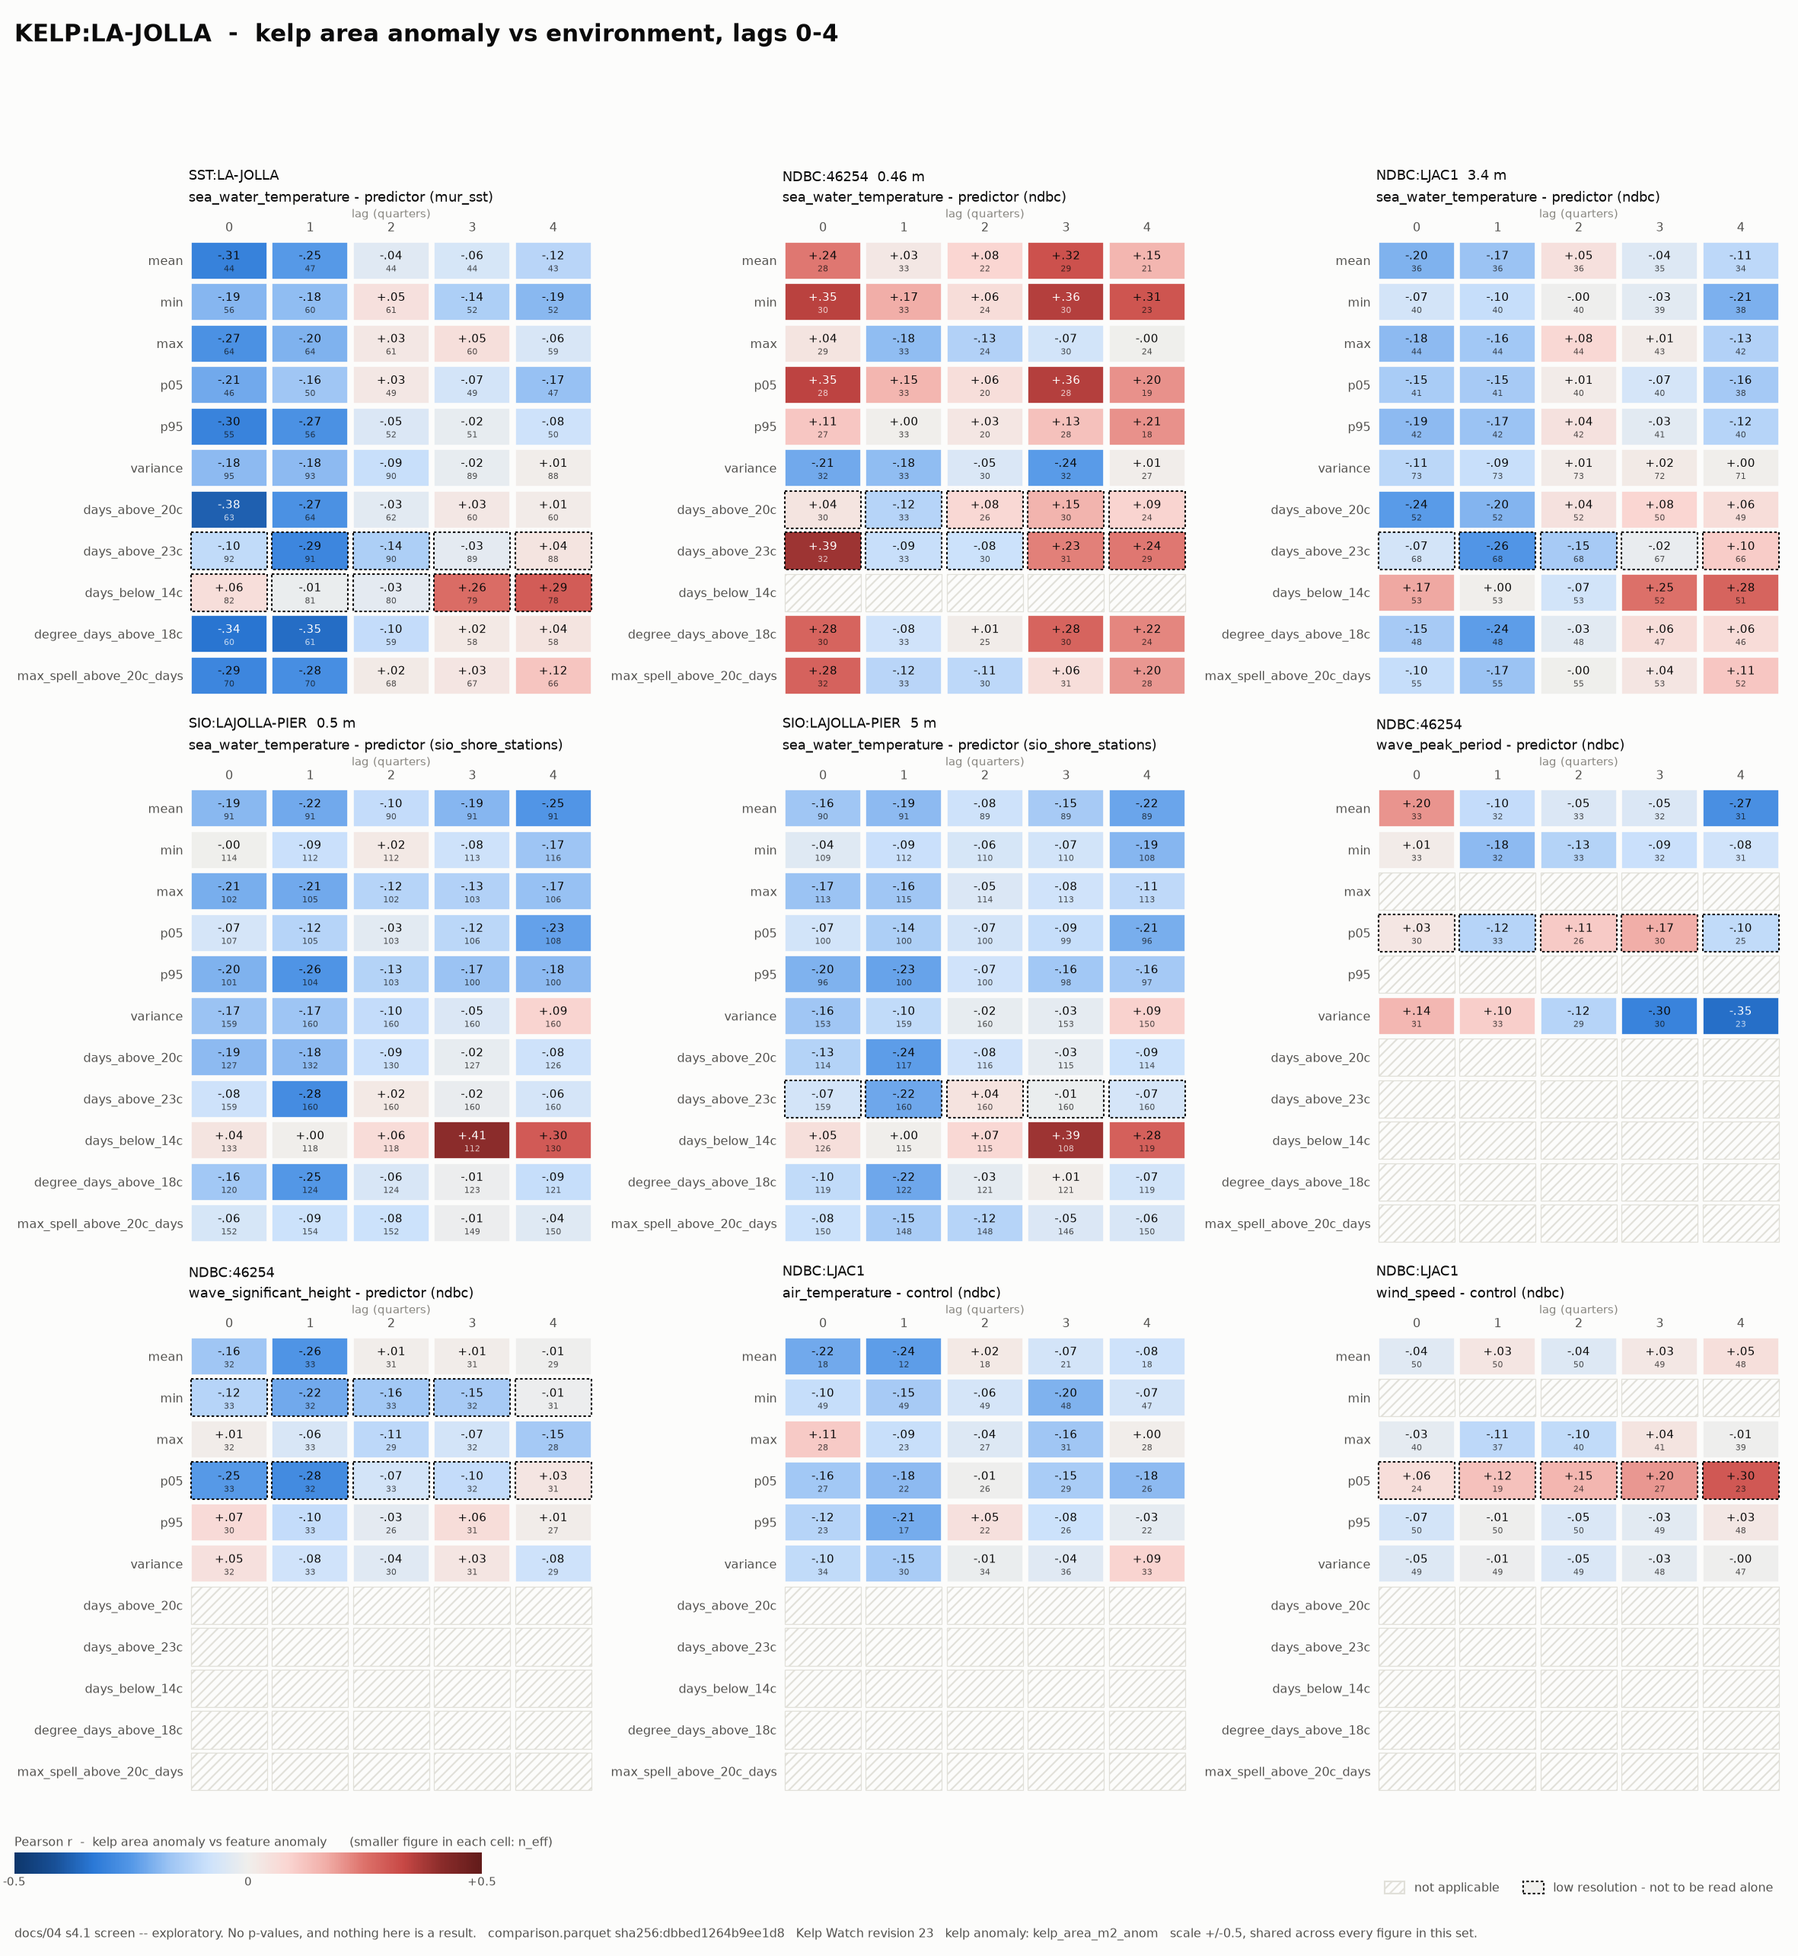
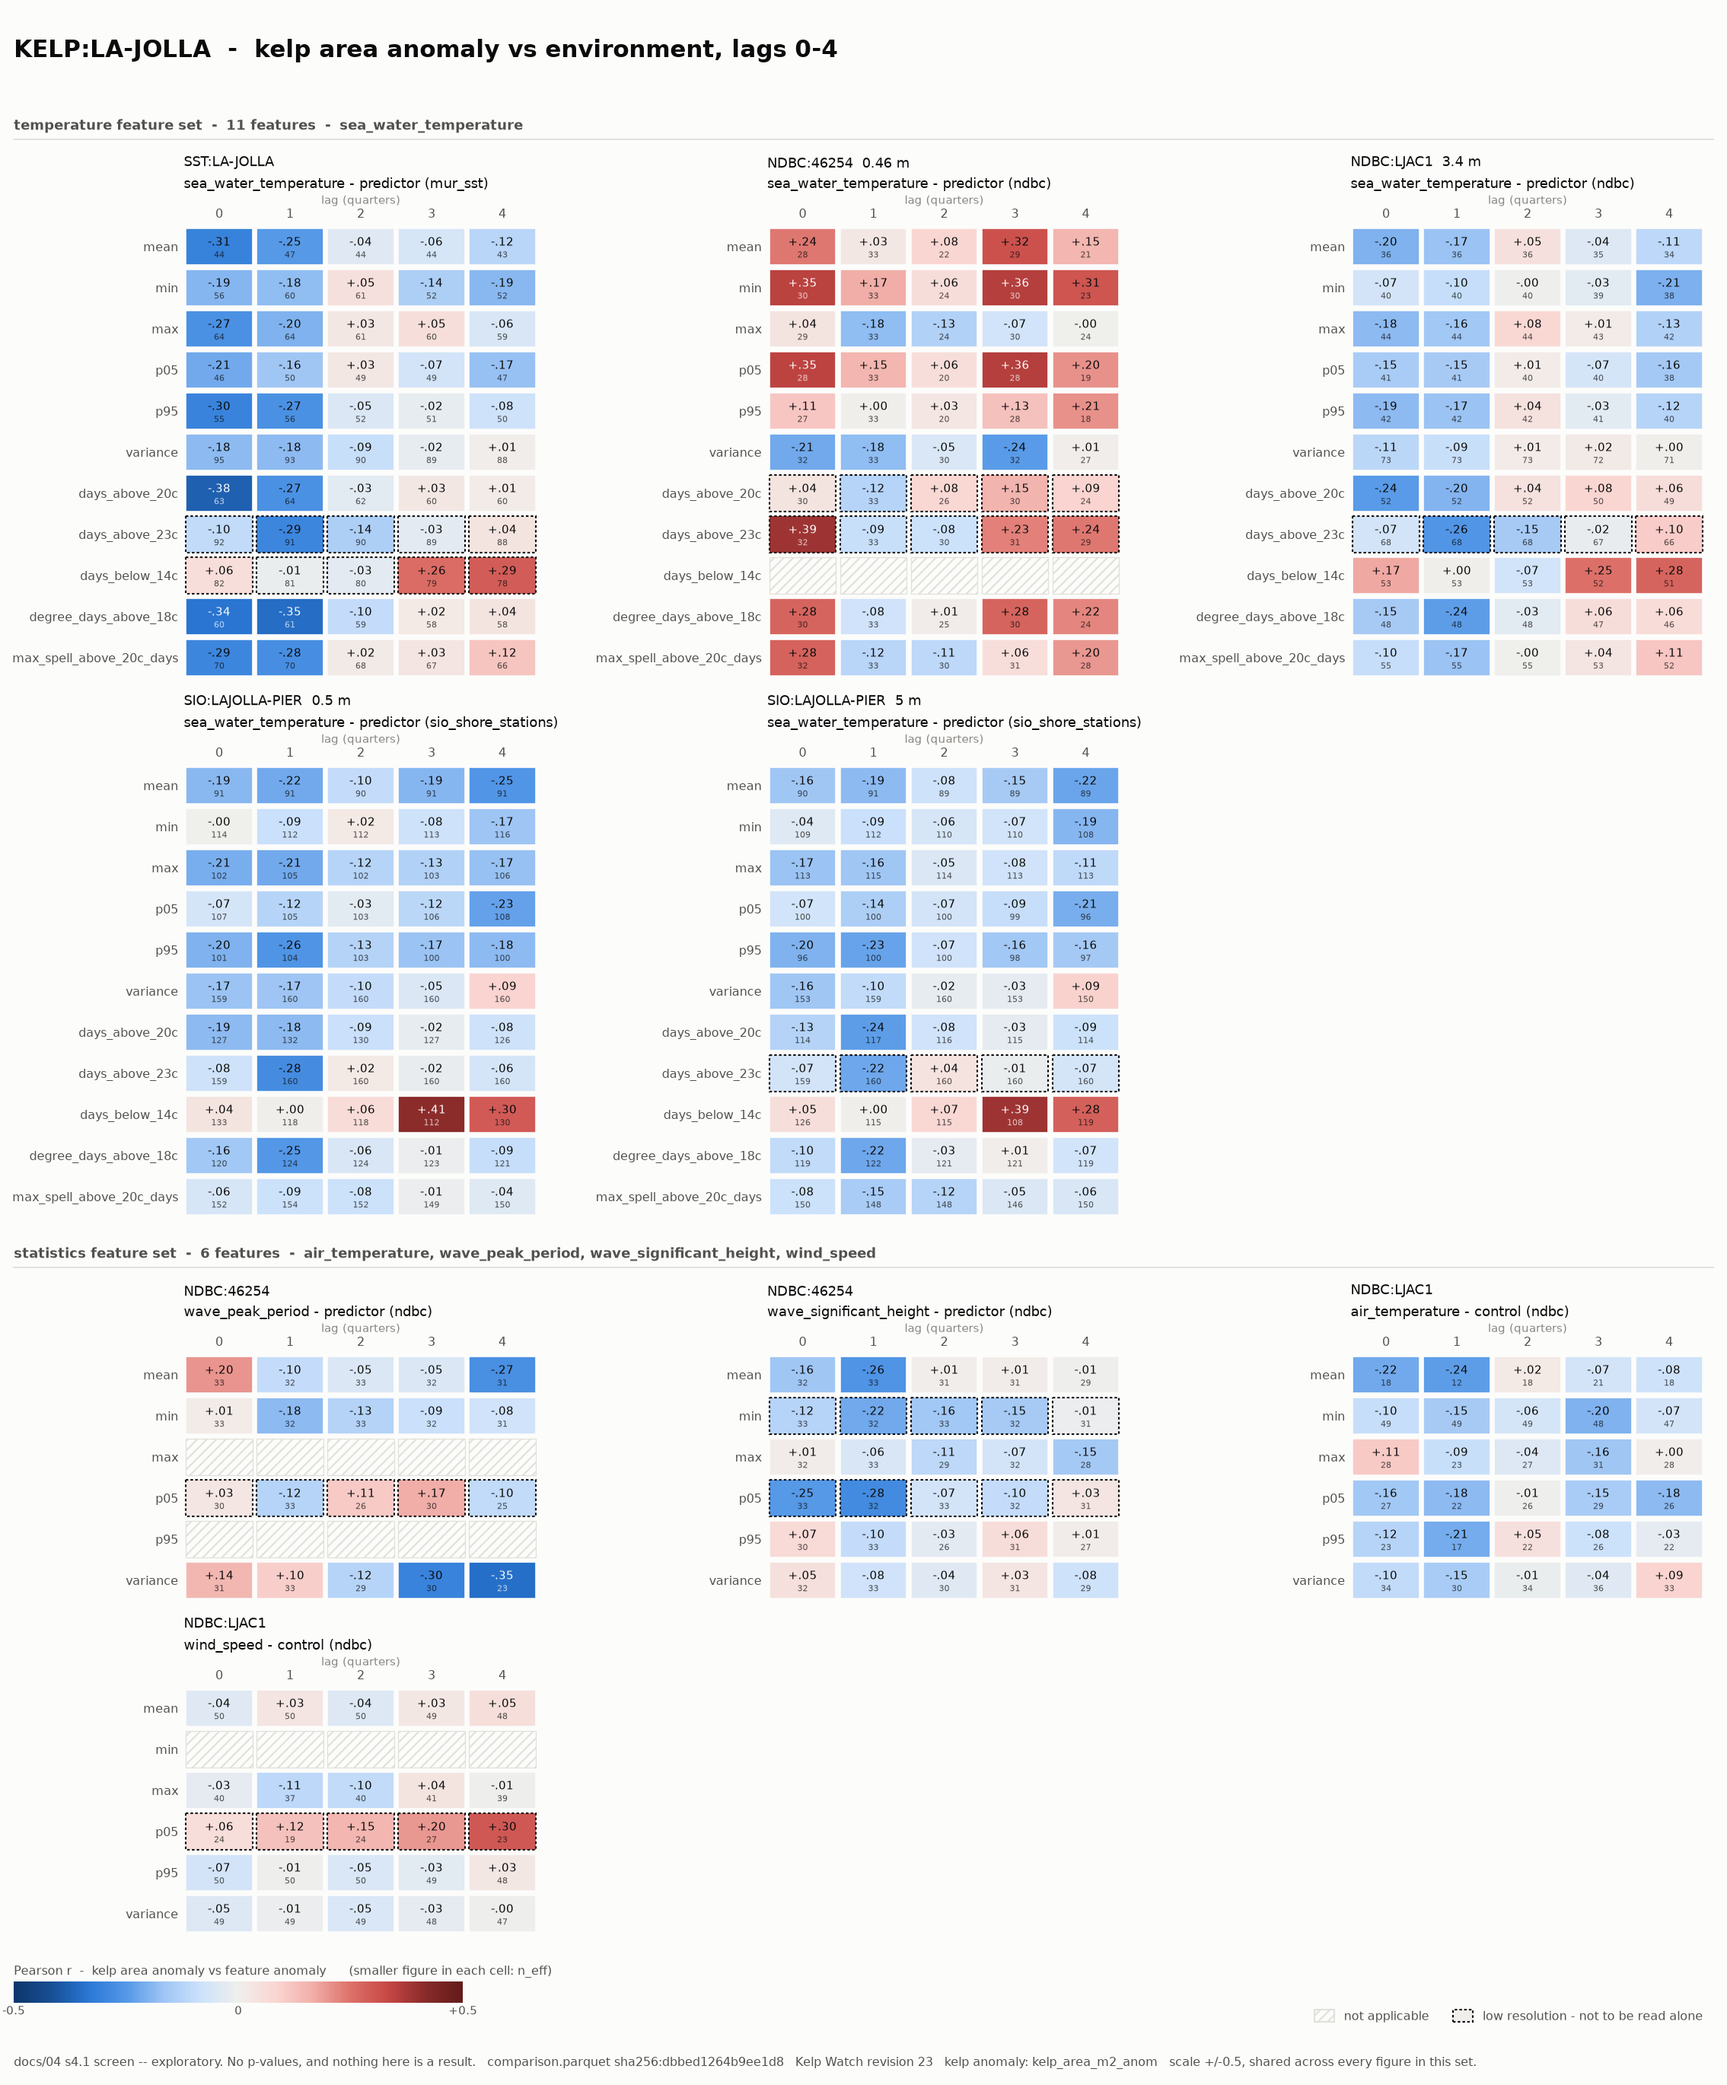
feat(notebooks): group the 4.1 panels by the feature set they carry
s4.1 asks `features.json` which features each parameter produces, through
`features.windowed.measured_columns` -- the function the builder itself
calls -- and groups a bed's panels by the axis that comes back. The axis
is never restated in the notebook: feature columns are named after their
thresholds (docs/03), so retuning one renames its column, and a literal
axis here would go on drawing a feature set the table no longer has.

Grouped on the axis itself rather than on the `feature_set` name that
produced it. Two parameters can declare one set and still produce
different columns, since retuning a threshold for a single parameter
splits the family, and a block is exactly a shared axis. The set name is
read back off the members for the label, which is the direction that
cannot go stale.

Over the current table (sha256:dbbed1264b9ee1d8, unchanged) this removes
350 permanently-empty cells from the six figures while leaving the 39
panels and the shared +/-0.5 scale exactly as they were. The hatching
that remains now marks a real hole -- NDBC:46254 supplying no
days_below_14c, wind_speed no resolvable minimum -- rather than a feature
the parameter was never going to have. Of the notebook's 23 cells, only
the figure cell's outputs moved; the rest came back byte-identical.

Figures and executed outputs regenerated with scripts/run-notebook.py per
notebooks/README.md, which gains the note that the feature axis is now a
notebook decision read from the registry.

diff --git a/notebooks/README.md b/notebooks/README.md
@@ -72,8 +72,12 @@ its own still says what it came from.
 *Rendering is a package module, not notebook code.* `kelpcompare.figures` draws a
 matrix it is handed and computes nothing, which keeps around figures the split
 hard rule 6 draws around the dashboard: a change to a colour ramp cannot move a
-number in an analysis of record. What to draw, over which series, and on what
-scale stays in the notebook, where the science is.
+number in an analysis of record. What to draw, over which series, on what feature
+axis and on what scale stays in the notebook, where the science is. The axis is
+itself read from `features.json` rather than restated, because the feature
+columns are named after the thresholds (docs/03): a threshold retuned in the
+registry renames its column, and a figure holding its own copy of the axis would
+go on drawing a feature set the table no longer has.
 
 **Nothing stochastic without a seed.** Nothing in these notebooks is stochastic
 yet; when something is, seed it in the first cell.
